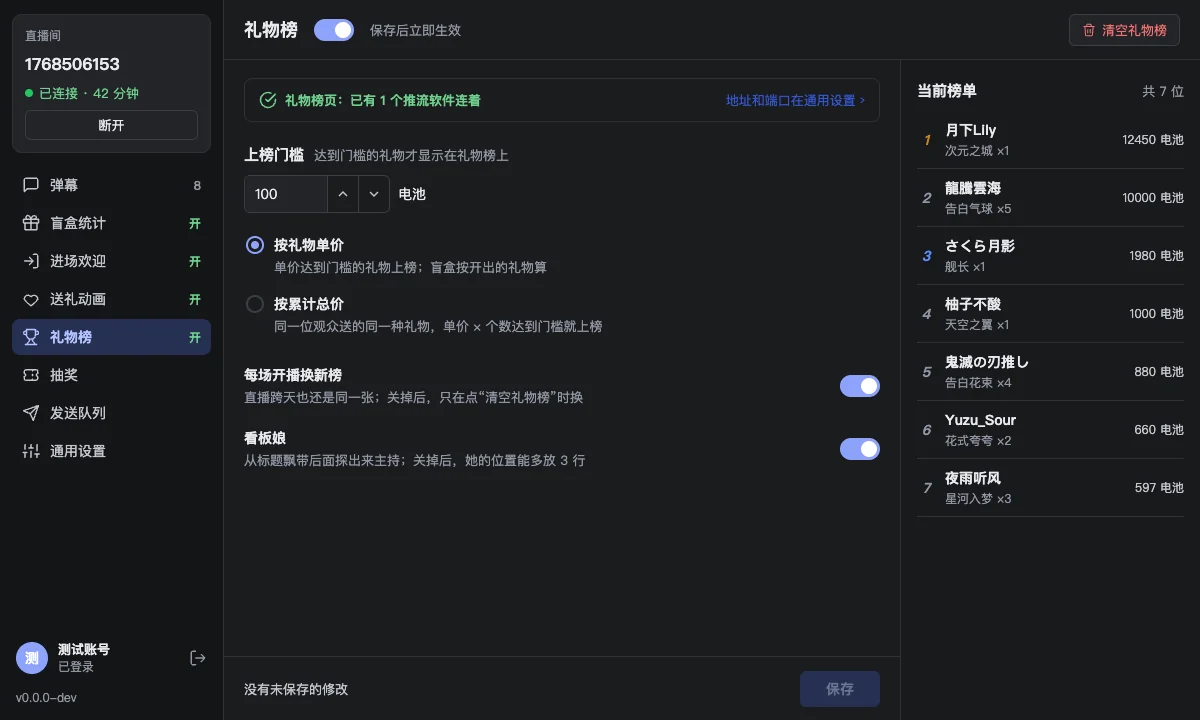
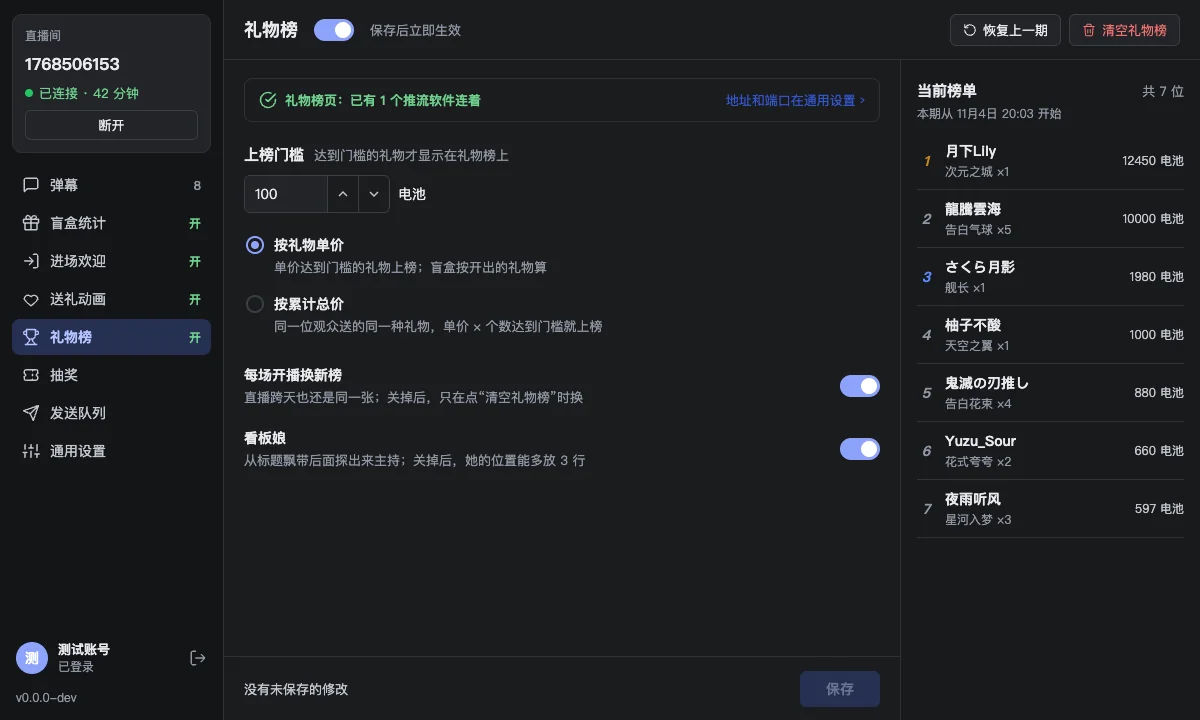
docs: add restoring the previous gift board period to the settings design (#296)

diff --git a/docs/design/gift-board/boards/GS1-GiftBoardSettings.dc.html b/docs/design/gift-board/boards/GS1-GiftBoardSettings.dc.html
@@ -53,7 +53,10 @@ a{color:#3358D4}a:hover{color:#2A47B0}
       <button type="button" role="switch" aria-checked="{{onSwitch.on}}" aria-label="礼物榜" onClick="{{onSwitch.toggle}}" style="position: relative; width: 40px; height: 22px; border: 0; border-radius: 11px; background: {{onSwitch.bg}}; padding: 0"><span style="position: absolute; top: 3px; left: {{onSwitch.knob}}; width: 16px; height: 16px; border-radius: 50%; background: #fff"></span></button>
       <span style="font-size: 13px; color: {{t.muted}}; white-space: nowrap">保存后立即生效</span>
       <span style="flex: 1"></span>
-      <sc-if value="{{offline}}" hint-placeholder-val="{{false}}"><span style="font-size: 13px; color: {{t.muted}}; white-space: nowrap">连上直播间后才能清空</span></sc-if>
+      <sc-if value="{{offline}}" hint-placeholder-val="{{false}}"><span style="font-size: 13px; color: {{t.muted}}; white-space: nowrap">连上直播间后才能清空和恢复</span></sc-if>
+      <button type="button" onClick="{{askRestore}}" disabled="{{restoreDisabled}}" style="height: 32px; display: inline-flex; align-items: center; gap: 6px; margin-right: -8px; padding: 0 12px; border: 1px solid {{t.control}}; border-radius: 6px; background: {{t.card}}; color: {{restoreColor}}; font: inherit; font-size: 13px; white-space: nowrap">
+        <svg width="14" height="14" viewBox="0 0 24 24" fill="none" stroke="currentColor" stroke-width="1.8" stroke-linecap="round" stroke-linejoin="round" aria-hidden="true"><path d="M3 12a9 9 0 1 0 3-6.7L3 8M3 3v5h5"></path></svg>恢复上一期
+      </button>
       <button type="button" onClick="{{askClear}}" disabled="{{clearDisabled}}" style="height: 32px; display: inline-flex; align-items: center; gap: 6px; padding: 0 12px; border: 1px solid {{t.control}}; border-radius: 6px; background: {{t.card}}; color: {{clearColor}}; font: inherit; font-size: 13px; white-space: nowrap">
         <svg width="14" height="14" viewBox="0 0 24 24" fill="none" stroke="currentColor" stroke-width="1.8" stroke-linecap="round" stroke-linejoin="round" aria-hidden="true"><path d="M3 6h18M8 6V4a2 2 0 0 1 2-2h4a2 2 0 0 1 2 2v2M19 6l-1 14a2 2 0 0 1-2 2H8a2 2 0 0 1-2-2L5 6M10 11v6M14 11v6"></path></svg>清空礼物榜
       </button>
@@ -132,6 +135,12 @@ a{color:#3358D4}a:hover{color:#2A47B0}
             <button type="button" onClick="{{cancelClear}}" style="height: 36px; padding: 0 16px; border: 1px solid {{t.control}}; border-radius: 6px; background: {{t.card}}; color: {{t.primary}}; font: inherit; font-size: 14px">取消</button>
             <button type="button" onClick="{{doClear}}" style="height: 36px; padding: 0 22px; border: 0; border-radius: 6px; background: #B91C1C; color: #fff; font: inherit; font-size: 14px; font-weight: 600">清空</button>
           </sc-if>
+          <sc-if value="{{confirmingRestore}}" hint-placeholder-val="{{false}}">
+            <span style="flex: 1"></span>
+            <span style="font-size: 14px; white-space: nowrap">{{restoreText}}</span>
+            <button type="button" onClick="{{cancelRestore}}" style="height: 36px; padding: 0 16px; border: 1px solid {{t.control}}; border-radius: 6px; background: {{t.card}}; color: {{t.primary}}; font: inherit; font-size: 14px">取消</button>
+            <button type="button" onClick="{{doRestore}}" style="height: 36px; padding: 0 22px; border: 0; border-radius: 6px; background: {{t.accent}}; color: {{t.onAccent}}; font: inherit; font-size: 14px; font-weight: 600">恢复</button>
+          </sc-if>
           <sc-if value="{{notConfirming}}" hint-placeholder-val="{{true}}">
             <span style="flex: 1; font-size: 13px; color: {{t.secondary}}; white-space: nowrap">{{footerText}}</span>
             <button type="button" disabled="{{saveDisabled}}" style="height: 36px; width: 80px; border: 0; border-radius: 6px; background: {{saveBg}}; color: {{saveColor}}; font: inherit; font-size: 14px; font-weight: 600">保存</button>
@@ -140,9 +149,10 @@ a{color:#3358D4}a:hover{color:#2A47B0}
       </div>
 
       <aside aria-label="当前榜单" style="width: 300px; flex-shrink: 0; box-sizing: border-box; display: flex; flex-direction: column; border-left: 1px solid {{t.border}}; background: {{t.aside}}">
-        <div style="display: flex; align-items: baseline; padding: 20px 16px 10px">
+        <div style="display: flex; flex-wrap: wrap; align-items: baseline; padding: 20px 16px 10px; row-gap: 4px">
           <h2 style="margin: 0; flex: 1; font-size: 15px; font-weight: 700">当前榜单</h2>
           <span style="font-size: 13px; color: {{t.muted}}">{{asideCount}}</span>
+          <sc-if value="{{periodText}}" hint-placeholder-val="本期从 11月4日 20:03 开始"><span style="flex-basis: 100%; font-size: 12px; color: {{t.muted}}; white-space: nowrap">{{periodText}}</span></sc-if>
         </div>
         <sc-if value="{{hasRows}}" hint-placeholder-val="{{true}}">
           <ol style="list-style: none; margin: 0; padding: 0 16px; display: flex; flex-direction: column">
@@ -209,7 +219,7 @@ a{color:#3358D4}a:hover{color:#2A47B0}
   </sc-if>
 </div>
 </x-dc>
-<script type="text/x-dc" data-dc-script data-props='{"page":{"editor":"enum","options":["礼物榜","通用设置"],"default":"礼物榜"},"scene":{"editor":"enum","options":["默认","清空确认","没连直播间","按累计总价","礼物榜页没连上"],"default":"默认"},"size":{"editor":"enum","options":["1200 × 720","1040 × 600"],"default":"1200 × 720"},"dark":{"editor":"boolean","default":false},"$preview":{"width":1200,"height":720}}'>
+<script type="text/x-dc" data-dc-script data-props='{"page":{"editor":"enum","options":["礼物榜","通用设置"],"default":"礼物榜"},"scene":{"editor":"enum","options":["默认","清空确认","恢复确认","已恢复","没连直播间","按累计总价","礼物榜页没连上"],"default":"默认"},"size":{"editor":"enum","options":["1200 × 720","1040 × 600"],"default":"1200 × 720"},"dark":{"editor":"boolean","default":false},"$preview":{"width":1200,"height":720}}'>
 class Component extends DCLogic {
   // The app's theme tokens, as on the other GUI boards.
   tokens(dark) {
@@ -242,7 +252,11 @@ class Component extends DCLogic {
     const mode = s.mode ?? (scene === '按累计总价' ? 2 : 1);
     const threshold = 100;
     const cleared = s.cleared === true;
+    // 已恢复 without a clear first = the 11月4日 board merged with the 11月3日 period (e.g. after an unwanted auto switch).
+    const merged = !cleared && (s.restored ?? scene === '已恢复');
+    const restoredNote = s.restoredNote ?? scene === '已恢复';
     const confirming = connected && !cleared && (s.confirming ?? scene === '清空确认');
+    const confirmingRestore = connected && !confirming && !merged && (s.confirmingRestore ?? scene === '恢复确认');
 
     // [nickname, gift, unit price in 电池, count]
     const all = [
@@ -250,7 +264,17 @@ class Component extends DCLogic {
       ['鬼滅の刃推し', '告白花束', 220, 4], ['Yuzu_Sour', '花式夸夸', 330, 2], ['夜雨听风', '星河入梦', 199, 3], ['星屑Koi', '干杯', 66, 8], ['白鹭', '情书', 52, 5]
     ];
     const shown = all.filter(([, , p, n]) => (mode === 1 ? p : p * n) >= threshold).sort((a, b) => b[2] * b[3] - a[2] * a[3]);
-    const rows = connected && enabled && !cleared ? shown.map(([name, gift, p, n], i) => ({
+    // The 11月3日 20:01 period; restoring merges it back: same viewer + same gift adds up.
+    const prev = [['龍騰雲海', '告白气球', 2000, 3], ['Aki秋', '为你加冕', 4500, 1], ['南風知我意', '提督', 19980, 1], ['夜雨听风', '星河入梦', 199, 2]];
+    const current = shown.map(r => [...r]);
+    if (merged) {
+      for (const [n, g, p, c] of prev) {
+        const hit = current.find(r => r[0] === n && r[1] === g);
+        if (hit) hit[3] += c; else if ((mode === 1 ? p : p * c) >= threshold) current.push([n, g, p, c]);
+      }
+      current.sort((a, b) => b[2] * b[3] - a[2] * a[3]);
+    }
+    const rows = connected && enabled && !cleared ? current.map(([name, gift, p, n], i) => ({
       rank: String(i + 1), name, gift: gift + ' ×' + n, value: (p * n) + ' 电池', rankColor: i < 3 ? ['#C9851D', t.muted, '#5B8CFF'][i] : t.muted
     })) : [];
 
@@ -293,9 +317,14 @@ class Component extends DCLogic {
       pageOk: pageOk && enabled, pageWaiting: !pageOk && enabled,
       rows, hasRows: rows.length > 0, noRows: rows.length === 0, asideCount, emptyText, count: rows.length,
       clearDisabled: !connected || rows.length === 0 ? 'true' : null, clearColor: !connected || rows.length === 0 ? t.disabled : t.danger,
-      confirming, notConfirming: !confirming,
-      askClear: () => this.setState({ confirming: true }), cancelClear: () => this.setState({ confirming: false }), doClear: () => this.setState({ confirming: false, cleared: true }),
-      footerText: cleared ? '已清空直播间 1768506153 的礼物榜' : dirty ? '有未保存的修改' : '没有未保存的修改',
+      confirming, confirmingRestore, notConfirming: !confirming && !confirmingRestore,
+      restoreDisabled: connected ? null : 'true', restoreColor: connected ? t.primary : t.disabled,
+      restoreText: cleared ? '上一期（11月4日，' + shown.length + ' 位）会恢复回来，确定吗？' : '上一期（11月3日，' + prev.length + ' 位）会合并回来，确定吗？',
+      askRestore: () => this.setState({ confirmingRestore: true, confirming: false }), cancelRestore: () => this.setState({ confirmingRestore: false }),
+      doRestore: () => this.setState(cleared ? { confirmingRestore: false, cleared: false, restoredNote: true } : { confirmingRestore: false, restored: true, restoredNote: true }),
+      periodText: !connected ? '' : merged ? '本期从 11月3日 20:01 开始' : cleared ? '本期从 11月4日 21:15 开始' : '本期从 11月4日 20:03 开始',
+      askClear: () => this.setState({ confirming: true, confirmingRestore: false }), cancelClear: () => this.setState({ confirming: false }), doClear: () => this.setState({ confirming: false, cleared: true, restoredNote: false }),
+      footerText: restoredNote ? '已恢复上一期' : cleared ? '已清空直播间 1768506153 的礼物榜' : dirty ? '有未保存的修改' : '没有未保存的修改',
       saveDisabled: dirty ? null : 'true', saveBg: dirty ? t.accent : t.saveOffBg, saveColor: dirty ? t.onAccent : t.saveOffText
     };
   }

diff --git a/docs/design/gift-board/README.md b/docs/design/gift-board/README.md
@@ -112,14 +112,17 @@ node docs/design/gift-board/tools/server.mjs 8799
 | 按累计总价 | `{"scene":"按累计总价"}` | GS5 | `gui-total.webp` |
 | 最小窗口，礼物榜页没连上 | `{"size":"1040 × 600","scene":"礼物榜页没连上"}` | GS6 | `gui-min-window.webp` |
 | 通用设置的页面列表 | `{"page":"通用设置"}` | GS7 | `gui-general-pages.webp` |
+| 恢复上一期确认（自动换榜后） | `{"scene":"恢复确认"}` | GS8 | `gui-restore-confirm.webp` |
+| 已恢复，两期合并 | `{"scene":"已恢复"}` | GS9 | `gui-restored.webp` |
 
 - **导航**：放在“送礼动画”下面，图标是奖杯；开着时右边写“开”，关着写“关”。
-- **标题栏**：标题、开关、“保存后立即生效”；右边是“清空礼物榜”按钮，垃圾桶图标，红字。没连直播间或榜上没人时不可用；没连直播间时，按钮左边提示“连上直播间后才能清空”。
+- **标题栏**：标题、开关、“保存后立即生效”；右边是“恢复上一期”和“清空礼物榜”两个按钮。“恢复上一期”是普通灰框按钮，回退箭头图标，没连直播间或没有上一期时不可用；“清空礼物榜”是垃圾桶图标、红字，没连直播间或榜上没人时不可用。没连直播间时，按钮左边提示“连上直播间后才能清空和恢复”。
 - **清空**：点了以后底部栏换成“清空后直播画面上的礼物榜也会变空，确定吗？ 取消 清空”，“清空”是红底按钮，做法同抽奖的“结束”。清空后底部栏写“已清空直播间 1768506153 的礼物榜”。
+- **恢复上一期**：点了以后底部栏换成“上一期（11月3日，4 位）会合并回来，确定吗？ 取消 恢复”，当前这一期是空的（例如刚清空）时写“会恢复回来”；“恢复”是主色按钮。恢复后同一观众同一礼物个数相加（龍騰雲海的告白气球 ×5 加上一期 ×3 成了 ×8），底部栏写“已恢复上一期”。
 - **礼物榜页状态条**：做法同送礼动画页的视频页状态条。没有推流软件连着时，换成黄色提醒和接入步骤。
 - **上榜门槛**：数字框（正整数）加“电池”；下面两个单选，“按礼物单价”和“按累计总价”，各带一行说明。
 - **每场开播换新榜**：放在门槛下面、看板娘上面，一行标题加说明“直播跨天也还是同一张；关掉后，只在点“清空礼物榜”时换”，开关在右边，默认开。
 - **看板娘**：一行标题加说明“从标题飘带后面探出来主持；关掉后，她的位置能多放 3 行”，开关在右边，默认开。
-- **右栏“当前榜单”**：只读，顺序和礼物榜页完全一样。每行是名次（斜体数字，前三名金、灰、蓝）、昵称（放不下时省略号）、礼物 × 个数，以及这一行的价值（电池）。右上角写“共 N 位”。没有内容时按情况提示：没连直播间、礼物榜关着、还没有人上榜。
+- **右栏“当前榜单”**：只读，顺序和礼物榜页完全一样。每行是名次（斜体数字，前三名金、灰、蓝）、昵称（放不下时省略号）、礼物 × 个数，以及这一行的价值（电池）。右上角写“共 N 位”，标题下面一行写“本期从 11月4日 20:03 开始”，自动换榜、清空、恢复以后跟着变；没连直播间时不显示。没有内容时按情况提示：没连直播间、礼物榜关着、还没有人上榜。
 - **通用设置**：网页服务的页面列表在视频页、抽奖页后面加“礼物榜页”，说明写“送礼观众的排行 · 素材 480 × 1000，可放大”，因为它不是那两个页面的 1920 × 1080；连接状态和复制按钮同另外两个页面。
 - 最小窗口 1040×600 下，固定文字都不折行；黄色提醒里的接入步骤允许折行，同现有页面。
